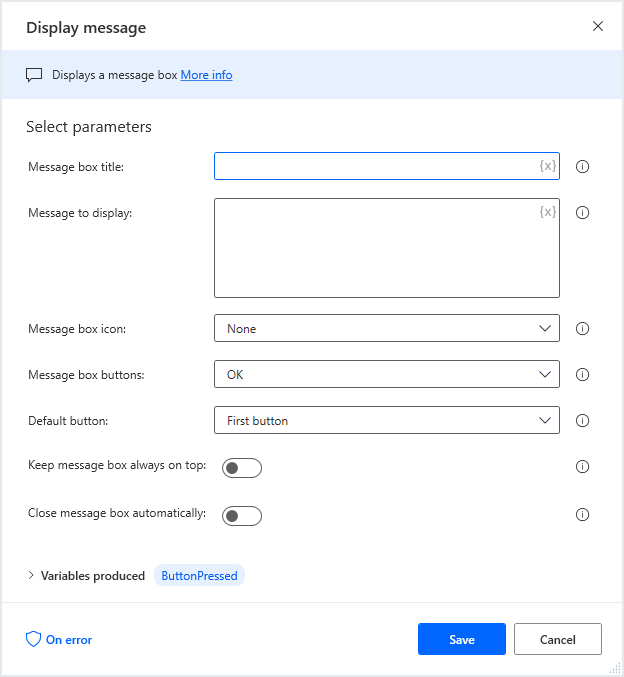
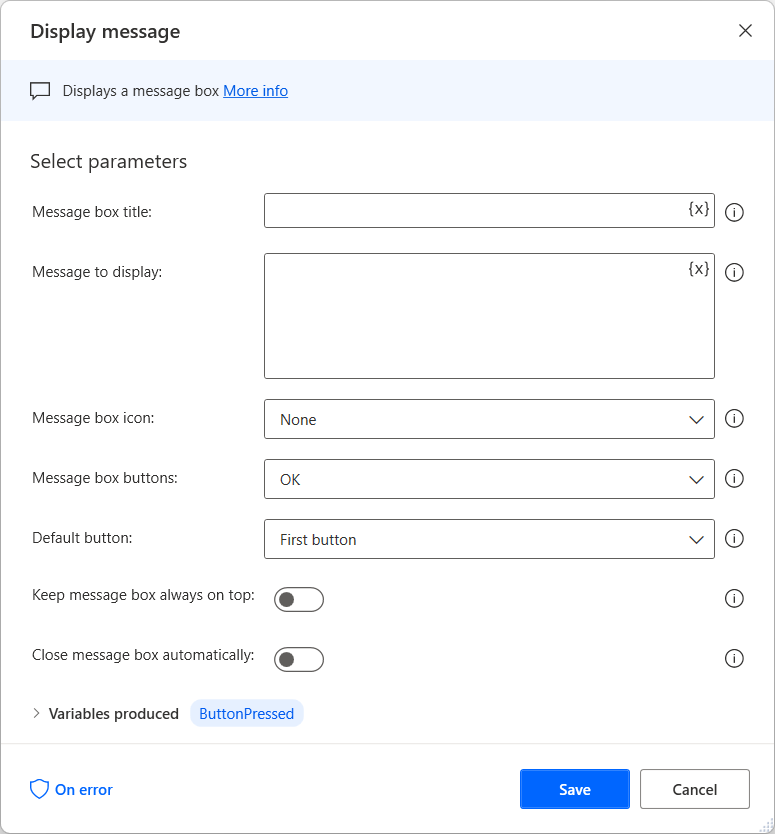
Updated screenshots in Power Automate for desktop development essentials part2

diff --git a/learn-bizapps-pr/flow/pad-power-automate-desktop-development-essentials/includes/2-creating-flow-designer.md b/learn-bizapps-pr/flow/pad-power-automate-desktop-development-essentials/includes/2-creating-flow-designer.md
@@ -18,7 +18,7 @@ This window can be accessed at any time, by double-clicking the action in the wo
 
 ## Variables
 
-Variables are data containers that Power Automate for desktop uses to store data for later use. In the previous screenshot, **%ButtonPressed%** is a variable created by the **Display Message** action. Variables are contained between percentage marks, which allows them to stand out from simple text.
+Variables are data containers that Power Automate for desktop uses to store data for later use. In the previous screenshot, **%ButtonPressed%** is a variable created by the **Display message** action. Variables are contained between percentage marks, which allows them to stand out from simple text.
 
 Variables can be produced as output from actions, or used as input for other actions. Opening an Excel worksheet, for example, produces a variable containing the Excel instance. This variable may then be used as input in any following actions that require interaction with that particular Excel instance:
 
